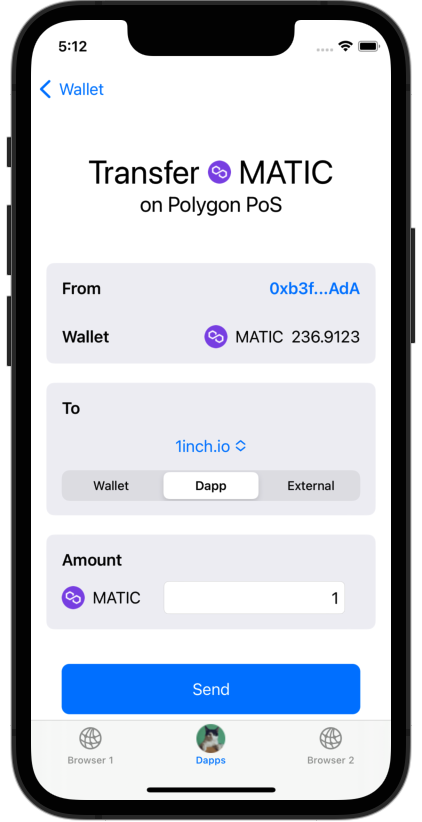
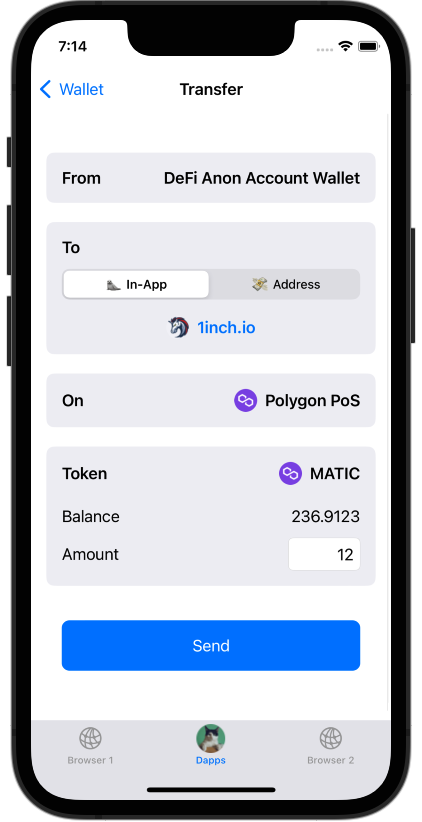
Update website screenshots

diff --git a/website/src/index.md b/website/src/index.md
@@ -35,15 +35,6 @@ title: Web3 Key Manager App
     automatically. [More](./one-dapp-per-key.md)
     </figcaption>
     </figure>
-    
--   __Move assets between wallets and dapps__
-    <figure markdown>
-    ![iOS app token transfer view](./assets/images/screenshots/transfer-view.png){ loading=lazy }
-    <figcaption>
-    You can also transfer a pre-configured amount automatically when you add a new
-    dapp. [More](./one-dapp-per-key.md)
-    </figcaption>
-    </figure>
 
 -   __Isolated identities__
     <figure markdown>
@@ -53,9 +44,18 @@ title: Web3 Key Manager App
     [More](./privacy.md)</figcaption>
     </figure>
 
+-   __Move assets between wallets and dapps__
+    <figure markdown>
+    ![iOS app token transfer view](./assets/images/screenshots/transfer-view.png){ loading=lazy }
+    <figcaption>
+    You can also transfer a pre-configured amount automatically when you add a new
+    dapp. [More](./one-dapp-per-key.md)
+    </figcaption>
+    </figure>
+
 -   __Best-in-class dapp browser__
     <figure markdown>
-    ![iOS app dapp browser notifications](./assets/images/screenshots/notifications.png){ loading=lazy }
+    ![iOS app dapp browser notifications](./assets/images/screenshots/top-dapps.png){ loading=lazy }
     <figcaption>
     Best-in-class dapp browser with helpful notifications about dapp transactions.
     </figure>
@@ -64,7 +64,7 @@ title: Web3 Key Manager App
     <figure markdown>
     ![iOS app open dapp in browser menu](./assets/images/screenshots/dual-browsers.png){ loading=lazy }
     <figcaption>
-    Open two dapps side-by-side and switch easily with a single tap while both of them remain connected.
+    Open two dapps side-by-side and switch with a single tap while both of them remain connected.
     </figure>
 
 -   __Multi chain__
